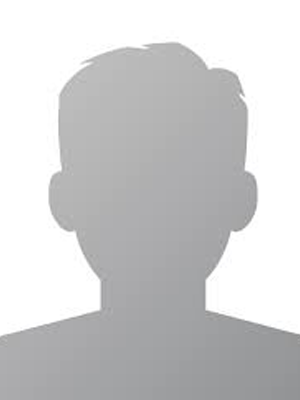
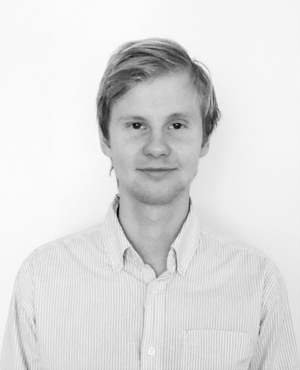
Rework started

diff --git a/test/pages/home.html b/test/pages/home.html
@@ -1,20 +1,13 @@
-<div class="container">
+<div class="container page">
 
-	<div class="row">
-		<div class="col-md-4">
-			<h2 class="subtitle">About</h2>
-			<a href="#about"><button type="button" class="btn btn-default btn-circle"><i class="fa fa-user"></i></button></a>
-		</div>
+	<div class="col-md-4">
 
-		<div class="col-md-4">
-			<h2 class="subtitle">Projects</h2>
-			<a href="#projects"><button type="button" class="btn btn-default btn-circle"><i class="fa fa-pencil"></i></button></a>
-		</div>
+		<img src="img/profile.png" class="profile">
 
-		<div class="col-md-4">
-			<h2 class="subtitle">Contact</h2>
-			<a href="#contact"><button type="button" class="btn btn-default btn-circle"><i class="fa fa-comment"></i></button></a>
-		</div>
+	</div>
+
+	<div class="col-md-8">
+Lorem Ipsum är en utfyllnadstext från tryck- och förlagsindustrin. Lorem ipsum har varit standard ända sedan 1500-talet, när en okänd boksättare tog att antal bokstäver och blandade dem för att göra ett provexemplar av en bok. Lorem ipsum har inte bara överlevt fem århundraden, utan även övergången till elektronisk typografi utan större förändringar. Det blev allmänt känt på 1960-talet i samband med lanseringen av Letraset-ark med avsnitt av Lorem Ipsum, och senare med mjukvaror som Aldus PageMaker.
 	</div>
 
 </div>

diff --git a/test/css/style.css b/test/css/style.css
@@ -1,40 +1,46 @@
-.btn-circle {
-  width: 200px;
-  height: 200px;
-  text-align: center;
-  font-size: 50px;
-  line-height: 1.428571429;
-  border-radius: 100%;
-
+.container-fixed{
+  background-color: #F2F2F2;
 }
 
-.subtitle{
-  color: #888888;
+.profile{
+  width: 70%;
+  border-radius: 5%;
+  margin: 5%;
+  border: 1px solid #f0f0f0;
+}
+
+.jumbotron{
+  background-color: white;
+  color:black;
 }
 
 .col-md-4{
   text-align: center;
-  margin-bottom: 2%;
-  margin-top: 1%;
 }
 
 .container-fixed {
   margin: 0 auto;
   max-width: 1080px;
+  color: white;
 }
 
-.profileImage{
-	max-width: 200px;
+.navbar{
+  background-color: #3AB04C;
+  color:white;
+}
+.navbar-default .navbar-nav>li>a {
+  color: white; 
 }
 
-#left{
-	width: 25%;
-	float: left;
-	display: block;
+.navbar-default .navbar-brand {
+  color: white;
 }
 
-#right{
-	width: 75%;
-	float: right;
-	display: block;
+.navbar-default .navbar-brand:hover{
+  color: black;
+}
+
+.page{
+  color:black;
+  background-color: white;
 }

diff --git a/test/index.html b/test/index.html
@@ -26,9 +26,7 @@
 
       <ul class="nav navbar-nav navbar-right">
         <li><a href="#"><i class="fa fa-home"></i> Home</a></li>
-        <li><a href="#about"><i class="fa fa-user"></i> About</a></li>
         <li><a href="#projects"><i class="fa fa-pencil"></i> Projects</a>
-        <li><a href="#contact"><i class="fa fa-comment"></i> Contact</a></li>
       </ul>
     </div>
   </nav>

diff --git a/test/pages/projects.html b/test/pages/projects.html
@@ -1,5 +1,3 @@
-<div class="jumbotron text-center">
-	<h1>Projects</h1>
-	
-	<p>{{ message }}</p>
+<div class="container page">
+
 </div>
